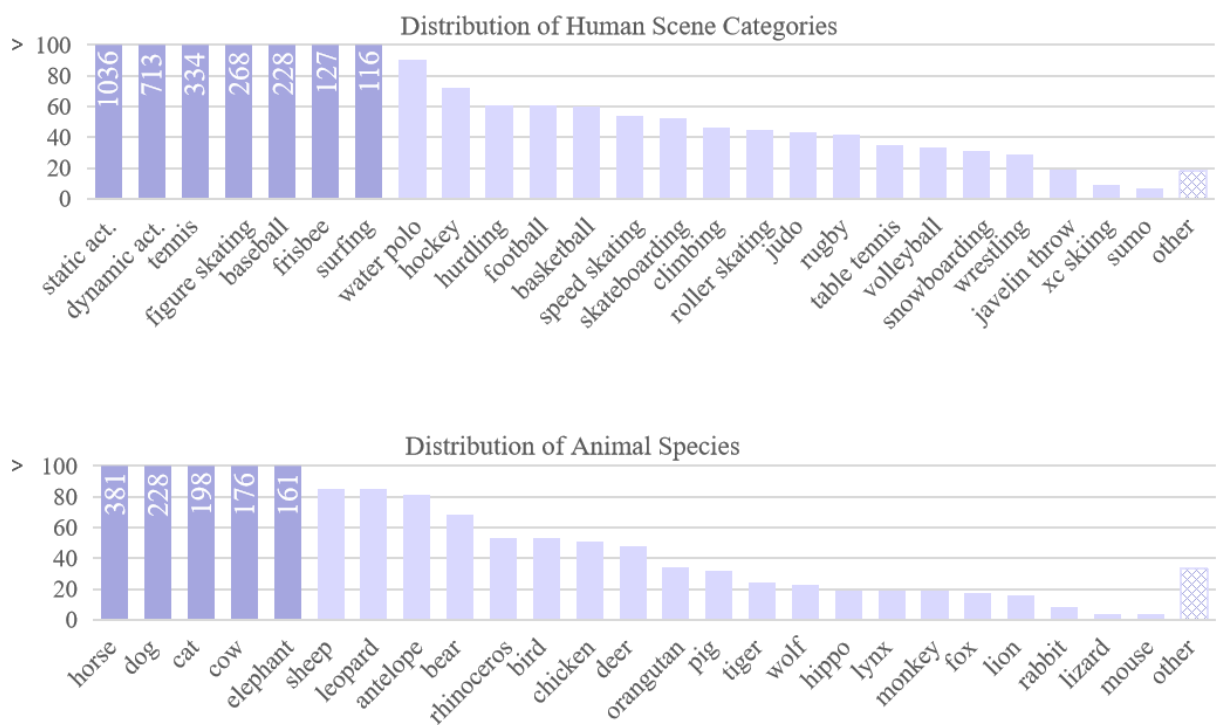
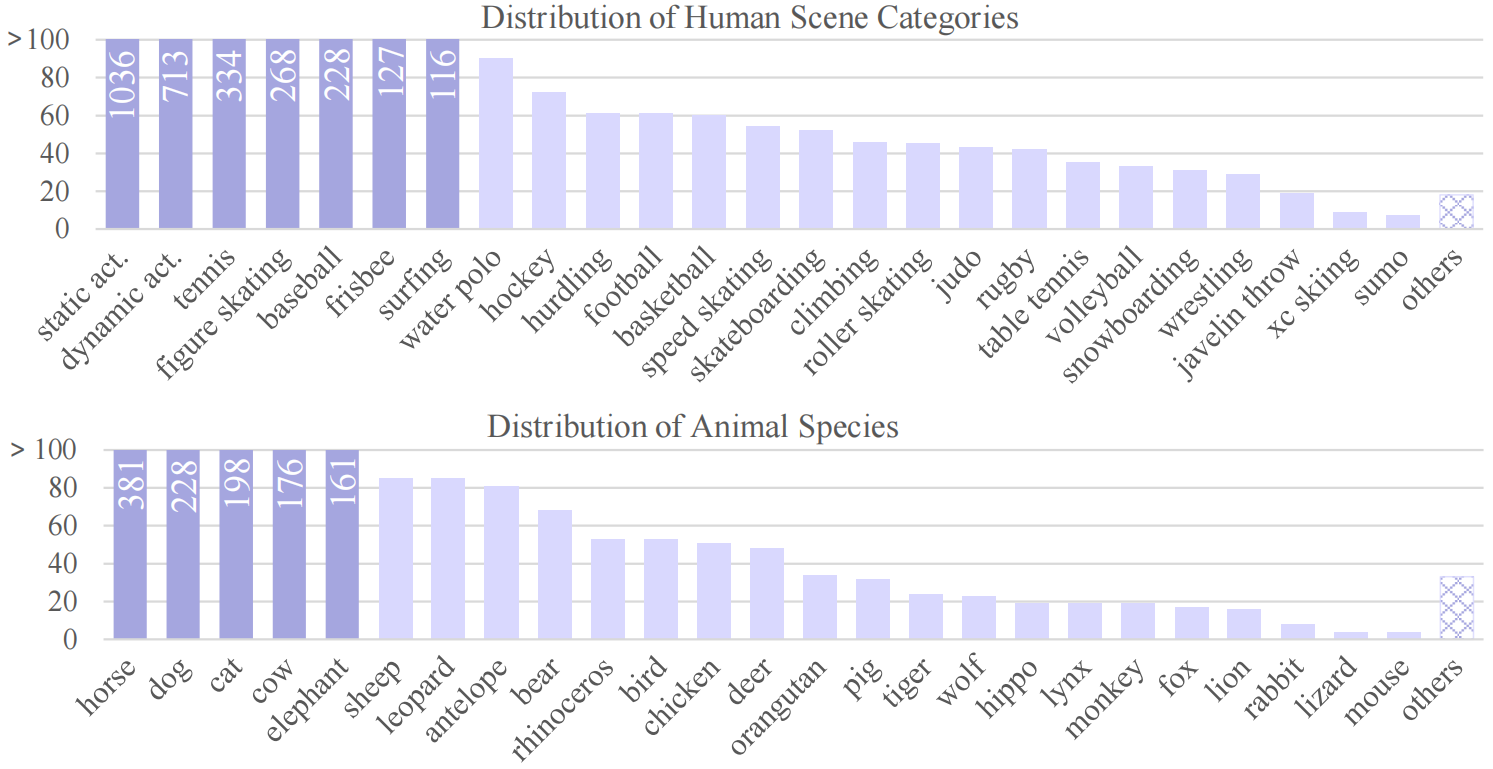
update all

Changed region(s): [[0.0, 0.0, 0.9975, 0.4855], [0.0, 0.5462, 0.9975, 1.0], [0.0935, 0.4552, 0.1247, 0.4855]]

diff --git a/README.md b/README.md
@@ -31,7 +31,7 @@
   - [Experiment](#experiment)
     - [Data Process](#data-process)
     - [Inference](#inference)
-    - [Finetune](#finetune)
+    - [Fine-tune](#fine-tune)
   - [Evaluation](#evaluation)
   - [Requirements](#requirements)
 - [4 License](#4-license)
@@ -49,7 +49,7 @@ The following figures list some classic examples in our dataset.
 
 ###  Detail Information
 
-As detailed in the following table, MirrorQA contains 5,549 samples, split into training, validation, and test sets with a 7:1:2 ratio.We also ensured that the number of correct answers for symmetrical types and dimensions (e.g., H.Left and H.Right) is as balanced as possible.
+As detailed in the following table, MirrorQA contains 5,549 samples, split into training, development, and test sets with a 7:1:2 ratio.We also ensured that the number of correct answers for symmetrical types and dimensions (e.g., H.Left and H.Right) is as balanced as possible.
 <br>All the split data sets are in the directory **_(Dataset/vqa_files)_**. 
 <br>
 
@@ -102,9 +102,9 @@ We provide the inference and fine-tuning code used in our experiments, along wit
 Code/
 ├── close_models/      # Inference code for closed-source models
 ├── data_process/      # Data process code for additional setting
-├── open_models/       # Inference and finetune code for open-source models
+├── open_models/       # Inference and fine-tune code for open-source models
 ├── evaluation/        # Evaluation code for all inference results
-└── requirements/      # Environment requirements for running the inference/finetune code
+└── requirements/      # Environment requirements for running the inference/ code
 ```
 
 ### Experiment
@@ -136,15 +136,15 @@ nohup python gpt5.py > log/gpt5.log 2>1& &
 ...
 ```
 
-#### Finetune
+#### Fine-tune
 
-- For instructBLIP, you can directly execute Python files in the directory **_(Code/open_models/finetune)_** to perform fine-tuning: 
+- For instructBLIP, you can directly execute Python files in the directory **_(Code/open_models/fine-tune)_** to perform fine-tuning: 
 
 ```
 nohup python instructblip.py > log/instructblip.log 2>1& &
 ```
 
-- For the remaining 9 open-source models, you need to execute bash files in the directory **_(Code/open_models/finetune)_** to perform fine-tuning:
+- For the remaining 9 open-source models, you need to execute bash files in the directory **_(Code/open_models/fine-tune)_** to perform fine-tuning:
 
 ```
 nohup bash intern.sh > log/intern.log 2>1& &
@@ -161,7 +161,7 @@ python metrics_circular.py
 
 ### Requirements
 
-The environment configuration required for inference/finetune code is placed in the directory **_(Code/requirements)_**.
+The environment configuration required for inference/fine-tune code is placed in the directory **_(Code/requirements)_**.
 
 
 
